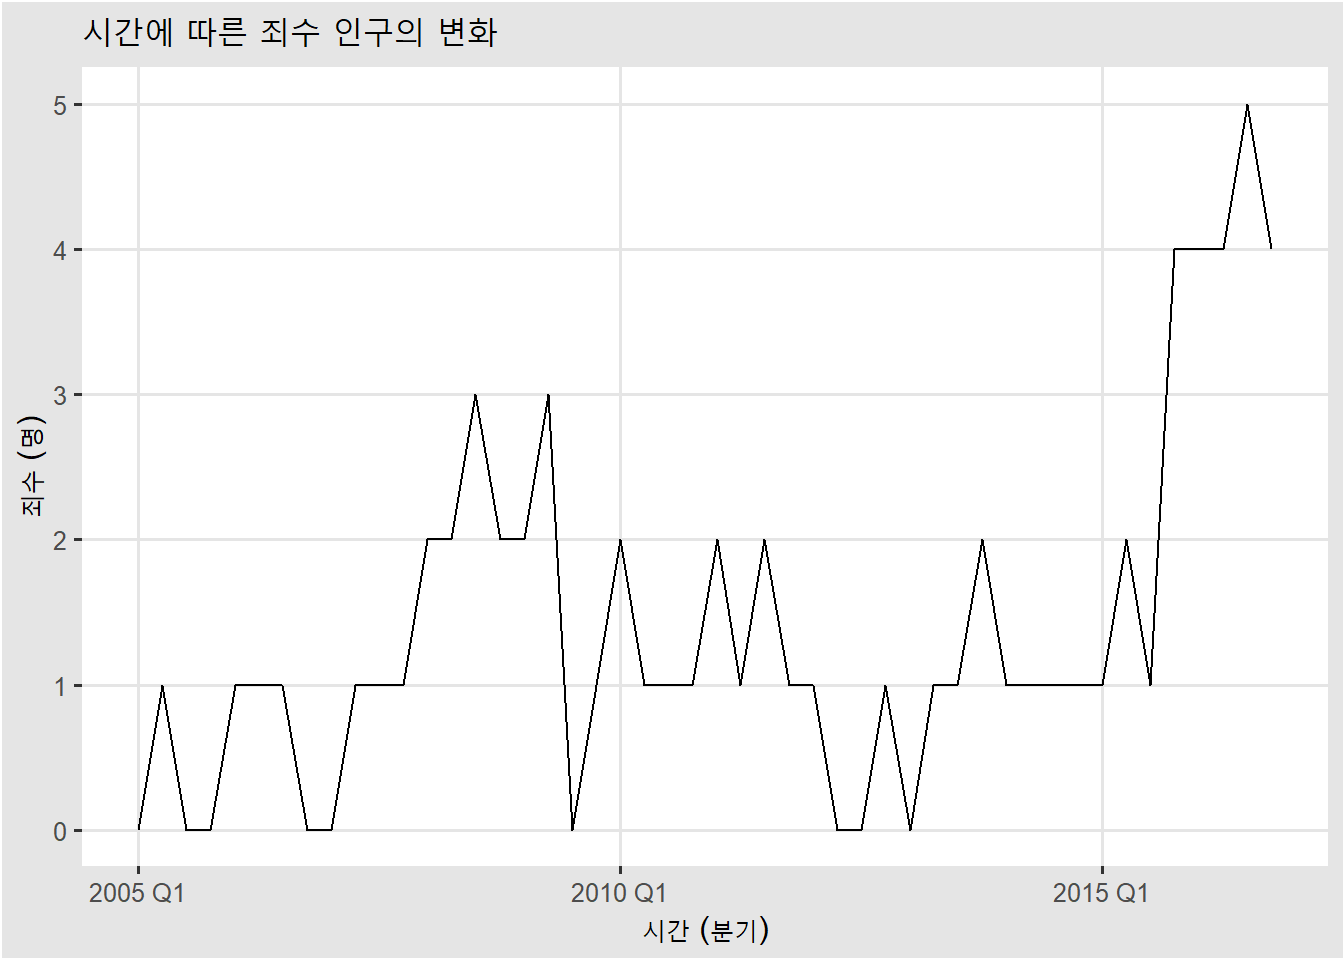
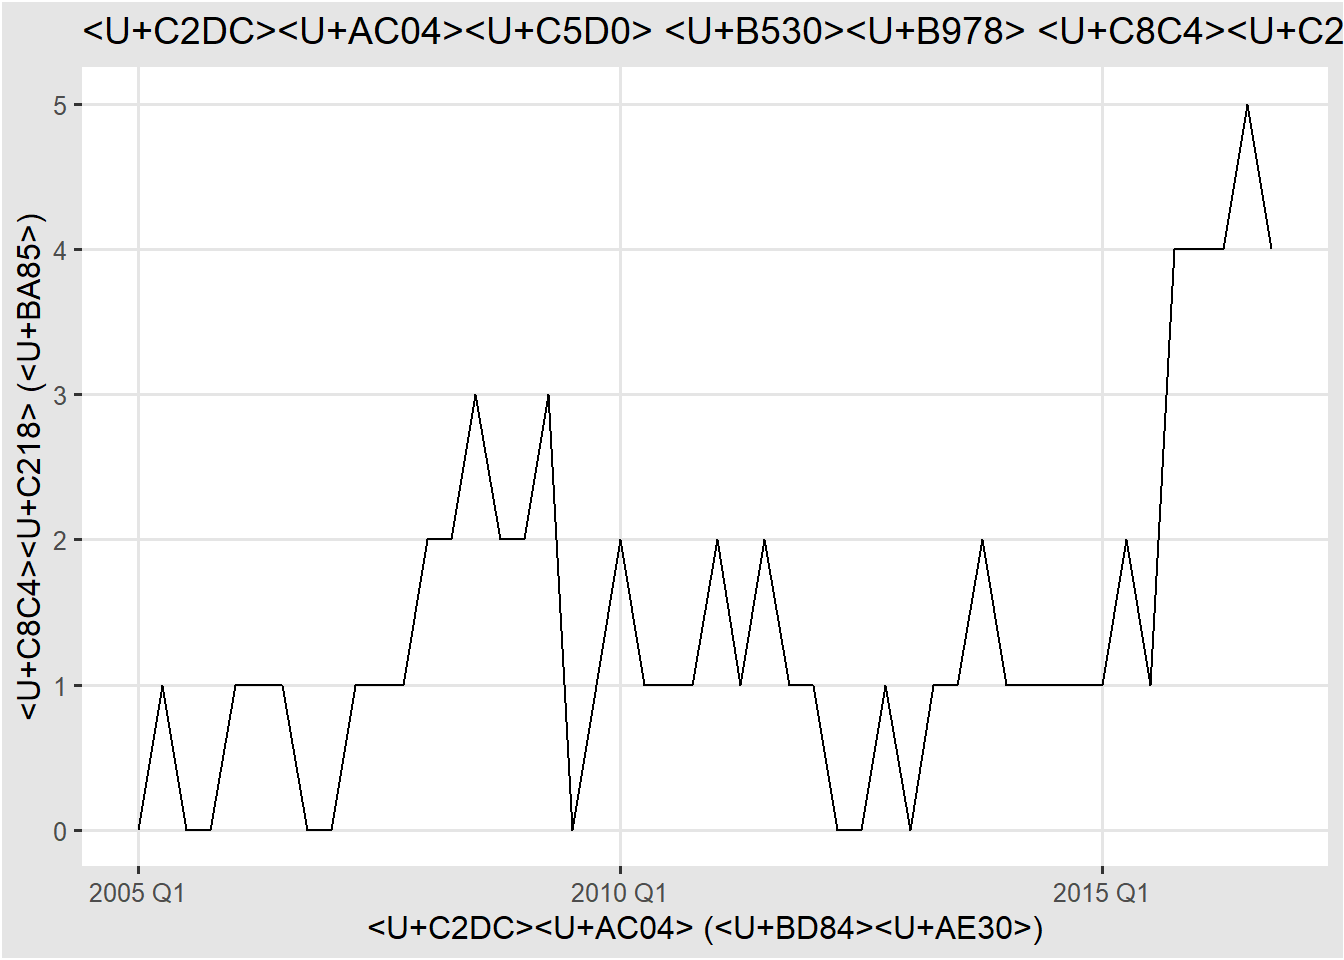
Chapter3 Commit
Chapter 3 Updated

diff --git a/docs/chapter3.html b/docs/chapter3.html
@@ -4,11 +4,11 @@
 
   <meta charset="utf-8" />
   <meta http-equiv="X-UA-Compatible" content="IE=edge" />
-  <title>시계열 공략집 with R</title>
+  <title>Chapter 2 시계열 첫걸음, 관련 패키지의 이해 | 시계열 공략집 with R</title>
   <meta name="description" content="복잡한 시계열 공부, 차근차근 공부해서 정복해보시죠! 본격 R 시계열 공략집" />
   <meta name="generator" content="bookdown 0.24 and GitBook 2.6.7" />
 
-  <meta property="og:title" content="시계열 공략집 with R" />
+  <meta property="og:title" content="Chapter 2 시계열 첫걸음, 관련 패키지의 이해 | 시계열 공략집 with R" />
   <meta property="og:type" content="book" />
   
   
@@ -16,7 +16,7 @@
   <meta name="github-repo" content="statisticsplaybook/r-torch-playbook" />
 
   <meta name="twitter:card" content="summary" />
-  <meta name="twitter:title" content="시계열 공략집 with R" />
+  <meta name="twitter:title" content="Chapter 2 시계열 첫걸음, 관련 패키지의 이해 | 시계열 공략집 with R" />
   
   <meta name="twitter:description" content="복잡한 시계열 공부, 차근차근 공부해서 정복해보시죠! 본격 R 시계열 공략집" />
   
@@ -31,8 +31,8 @@
   <meta name="apple-mobile-web-app-status-bar-style" content="black" />
   
   
-
-<link rel="next" href="intro.html"/>
+<link rel="prev" href="intro.html"/>
+<link rel="next" href="references.html"/>
 <script src="libs/header-attrs-2.11/header-attrs.js"></script>
 <script src="libs/jquery-3.6.0/jquery-3.6.0.min.js"></script>
 <script src="https://cdn.jsdelivr.net/npm/fuse.js@6.4.6/dist/fuse.min.js"></script>
@@ -71,70 +71,6 @@
 <script data-ad-client="ca-pub-3877288275353516" async src="https://pagead2.googlesyndication.com/pagead/js/adsbygoogle.js"></script>
 
 
-<style type="text/css">
-pre > code.sourceCode { white-space: pre; position: relative; }
-pre > code.sourceCode > span { display: inline-block; line-height: 1.25; }
-pre > code.sourceCode > span:empty { height: 1.2em; }
-.sourceCode { overflow: visible; }
-code.sourceCode > span { color: inherit; text-decoration: inherit; }
-pre.sourceCode { margin: 0; }
-@media screen {
-div.sourceCode { overflow: auto; }
-}
-@media print {
-pre > code.sourceCode { white-space: pre-wrap; }
-pre > code.sourceCode > span { text-indent: -5em; padding-left: 5em; }
-}
-pre.numberSource code
-  { counter-reset: source-line 0; }
-pre.numberSource code > span
-  { position: relative; left: -4em; counter-increment: source-line; }
-pre.numberSource code > span > a:first-child::before
-  { content: counter(source-line);
-    position: relative; left: -1em; text-align: right; vertical-align: baseline;
-    border: none; display: inline-block;
-    -webkit-touch-callout: none; -webkit-user-select: none;
-    -khtml-user-select: none; -moz-user-select: none;
-    -ms-user-select: none; user-select: none;
-    padding: 0 4px; width: 4em;
-    color: #aaaaaa;
-  }
-pre.numberSource { margin-left: 3em; border-left: 1px solid #aaaaaa;  padding-left: 4px; }
-div.sourceCode
-  {   }
-@media screen {
-pre > code.sourceCode > span > a:first-child::before { text-decoration: underline; }
-}
-code span.al { color: #ff0000; font-weight: bold; } /* Alert */
-code span.an { color: #60a0b0; font-weight: bold; font-style: italic; } /* Annotation */
-code span.at { color: #7d9029; } /* Attribute */
-code span.bn { color: #40a070; } /* BaseN */
-code span.bu { } /* BuiltIn */
-code span.cf { color: #007020; font-weight: bold; } /* ControlFlow */
-code span.ch { color: #4070a0; } /* Char */
-code span.cn { color: #880000; } /* Constant */
-code span.co { color: #60a0b0; font-style: italic; } /* Comment */
-code span.cv { color: #60a0b0; font-weight: bold; font-style: italic; } /* CommentVar */
-code span.do { color: #ba2121; font-style: italic; } /* Documentation */
-code span.dt { color: #902000; } /* DataType */
-code span.dv { color: #40a070; } /* DecVal */
-code span.er { color: #ff0000; font-weight: bold; } /* Error */
-code span.ex { } /* Extension */
-code span.fl { color: #40a070; } /* Float */
-code span.fu { color: #06287e; } /* Function */
-code span.im { } /* Import */
-code span.in { color: #60a0b0; font-weight: bold; font-style: italic; } /* Information */
-code span.kw { color: #007020; font-weight: bold; } /* Keyword */
-code span.op { color: #666666; } /* Operator */
-code span.ot { color: #007020; } /* Other */
-code span.pp { color: #bc7a00; } /* Preprocessor */
-code span.sc { color: #4070a0; } /* SpecialChar */
-code span.ss { color: #bb6688; } /* SpecialString */
-code span.st { color: #4070a0; } /* String */
-code span.va { color: #19177c; } /* Variable */
-code span.vs { color: #4070a0; } /* VerbatimString */
-code span.wa { color: #60a0b0; font-weight: bold; font-style: italic; } /* Warning */
-</style>
 
 
 <link rel="stylesheet" href="style.css" type="text/css" />
@@ -196,48 +132,20 @@ code span.wa { color: #60a0b0; font-weight: bold; font-style: italic; } /* Warni
           <div class="page-inner">
 
             <section class="normal" id="section-">
-<div id="header">
-<h1 class="title">시계열 공략집 with R</h1>
-<p class="author"><em><a href="https://www.youtube.com/c/statisticsplaybook">슬기로운통계생활</a></em></p>
-<p class="date"><em>2022-01-15</em></p>
-</div>
-<div id="들어가며" class="section level1 unnumbered">
-<h1>들어가며</h1>
-<p><img src="image/deeplearning-playbook.png" /></p>
-<p>슬기로운 통계생활에서 2022년을 맞이하여 새롭게 시작한 시계열 스터디 내욜을 정리해놓은 레포입니다! 많은 내용은 다음의 R 시계열 교과서인 <a href="https://otexts.com/fpp3/">Forecasting: Principles and Practice (이하 <code>fpp3</code>)</a> 책을 기반으로 하고 있으나, 슬기로운 통계생활의 입맛에 맞게 내용이 추가 혹은 변경되어 있음을 알려드립니다.</p>
-<div id="공략집-사용법" class="section level2 unnumbered">
-<h2>공략집 사용법</h2>
-<ul>
-<li>중요표시, 주석달기: 읽다가 중요하거나 나중에 따로 보고싶은 기능의 경우, 드래그를 하면 다음과 같은 선택 버튼이 나온다. 형광펜 긋고 싶은 경우 <code>Highlight</code> 선택, 주석을 달고 싶은 경우 <code>Annotate</code>을 선택하자.</li>
-</ul>
-<p><img src="image/annotation.jpg" /></p>
-<ul>
-<li><p>하이라이팅 on/off: 가끔은 하이라이팅 해 놓은 것들을 없애고 글 만 읽고싶은 경우가 있을텐데 그 때엔 오른쪽 상단 동그라미에 점이 찍혀있는 버튼를 클릭하면 하이라이팅 된 것이 사라진다.</p></li>
-<li><p>주석 공개/비공개: 주석은 필자와 다른 독자가 볼 수 있도록 <code>public</code>하게 남길 수도 있고, 자신만 볼 수 있게끔 private으로 설정 할 수 있다.</p></li>
-</ul>
-<p><img src="image/private.jpg" /></p>
-<ul>
-<li>주석 기능을 이용하여 필자에게 피드백을 줄 수 있다. 오타나 오류 발견시 주석을 달아주시면 필자가 주기적으로 체크해서 고쳐나가도록 하겠다.</li>
-</ul>
-<div class="rmdnote">
-<h3 id="알아두기">
-알아두기
+<div id="chapter3" class="section level1" number="2">
+<h1><span class="header-section-number">Chapter 2</span> 시계열 첫걸음, 관련 패키지의 이해</h1>
+<div id="tsibble-그리고-fable-패키지-1" class="section level2" number="2.1">
+<h2><span class="header-section-number">2.1</span> <code>tsibble</code> 그리고 <code>fable</code> 패키지</h2>
+<p>시계열과 관련 된 R 패키지는 정말 많이 있다. 그 중에서 가장 유명한 패키지는 <code>forecast</code> 패키지이다. <code>fpp</code> 2판에서 메인 패키지로 활용되었던 <code>forecast</code> 패키지는 예측성능이 좋기로 유명하다. 하지만 <code>forecast</code>는 base 패키지를 기반으로 짜여져있는 패키지라서 <code>fpp</code> 3판에서 사용하게 될 패키지는 <code>tsibble</code>과 <code>fable</code> 패키지를 주로 사용하게 될 예정이다. 두 패키지 모두 <code>tidyverse</code>스러운 코딩과 잘 맞는 함수들을 지원하는 것이 특징이다.</p>
+<div class="rmdwarning">
+<h3 id="주의하기">
+주의하기
 </h3>
 <p>
-<strong>하이라이팅과 주석들을 나중에 따로 볼 수 있다.</strong> 자주 방문하시는 분들은 가입하시고 사용하시면 여러모로 편할 것이다.
+<code>forecast</code> 패키지는 다른 언어를 사용하는 커뮤니티에도 알려질 정도로 잘 짜여진 패키지이다. 꼭 한번은 사용법을 알아둘 것을 추천한다. <a href="https://otexts.com/fppkr/"><code>fpp</code> 2판의 한글판</a>을 봐두는 것도 나쁘지 않는 선택이다.
 </p>
 </div>
-</div>
-<div id="설치하기" class="section level2 unnumbered">
-<h2>설치하기</h2>
-<p>설치 역시 간단한다. 여느 R패키지와 같이 <code>install.packages()</code> 함수를 사용하면 된다. 서브 라이브러리인 <code>torchaudio</code>와 <code>torchvision</code>이 있으나, 책의 뒷부분에서 다루기로 한다.</p>
-<div class="sourceCode" id="cb1"><pre class="sourceCode r"><code class="sourceCode r"><span id="cb1-1"><a href="index.html#cb1-1" aria-hidden="true" tabindex="-1"></a><span class="fu">install.packages</span>(<span class="st">&quot;fpp3&quot;</span>)</span></code></pre></div>
-</div>
-<div id="기본-패키지" class="section level2 unnumbered">
-<h2>기본 패키지</h2>
-<p>앞으로의 내용에 있어서 다음의 두 패키지는 기본으로 불러와서 사용하는 것을 약속으로 한다.</p>
-<div class="sourceCode" id="cb2"><pre class="sourceCode r"><code class="sourceCode r"><span id="cb2-1"><a href="index.html#cb2-1" aria-hidden="true" tabindex="-1"></a><span class="fu">library</span>(tidyverse)</span>
-<span id="cb2-2"><a href="index.html#cb2-2" aria-hidden="true" tabindex="-1"></a><span class="fu">library</span>(fpp3)</span></code></pre></div>
+<p>Chapter 3 (tested by Jongjin Kim)</p>
 
 </div>
 </div>
@@ -246,8 +154,8 @@ code span.wa { color: #60a0b0; font-weight: bold; font-style: italic; } /* Warni
           </div>
         </div>
       </div>
-
-<a href="intro.html" class="navigation navigation-next navigation-unique" aria-label="Next page"><i class="fa fa-angle-right"></i></a>
+<a href="intro.html" class="navigation navigation-prev " aria-label="Previous page"><i class="fa fa-angle-left"></i></a>
+<a href="references.html" class="navigation navigation-next " aria-label="Next page"><i class="fa fa-angle-right"></i></a>
     </div>
   </div>
 <script src="libs/gitbook-2.6.7/js/app.min.js"></script>
@@ -264,7 +172,7 @@ gitbook.start({
 "sharing": null,
 "fontsettings": null,
 "edit": {
-"link": "https://github.com/statisticsplaybook/deeplearning-playbook/edit/master/index.Rmd",
+"link": "https://github.com/statisticsplaybook/deeplearning-playbook/edit/master/03-Chapter3.Rmd",
 "text": "Edit"
 },
 "history": {

diff --git a/docs/404.html b/docs/404.html
@@ -171,6 +171,10 @@ code span.wa { color: #60a0b0; font-weight: bold; font-style: italic; } /* Warni
 <li class="chapter" data-level="1.7" data-path="intro.html"><a href="intro.html#seasonal-plot"><i class="fa fa-check"></i><b>1.7</b> Seasonal plot</a></li>
 <li class="chapter" data-level="1.8" data-path="intro.html"><a href="intro.html#scatter-plots"><i class="fa fa-check"></i><b>1.8</b> Scatter plots</a></li>
 </ul></li>
+<li class="chapter" data-level="2" data-path="chapter3.html"><a href="chapter3.html"><i class="fa fa-check"></i><b>2</b> 시계열 첫걸음, 관련 패키지의 이해</a>
+<ul>
+<li class="chapter" data-level="2.1" data-path="chapter3.html"><a href="chapter3.html#tsibble-그리고-fable-패키지-1"><i class="fa fa-check"></i><b>2.1</b> <code>tsibble</code> 그리고 <code>fable</code> 패키지</a></li>
+</ul></li>
 <li class="chapter" data-level="" data-path="references.html"><a href="references.html"><i class="fa fa-check"></i>References</a></li>
 <li class="divider"></li>
 <li><a href="https://github.com/statisticsplaybook/r-torch-playbook" target="blank">Published with bookdown</a></li>

diff --git a/docs/01-intro-to-tsibble.md b/docs/01-intro-to-tsibble.md
@@ -158,7 +158,8 @@ prison
 분기별 데이터를 `yearquarter` 사용해서 설정해줬던 것 처럼 다음 표과 같이 여러 시간 간격을 설정할 수 있는 함수를 `tsibble` 패키지에서는 제공한다. 자신의 데이터에 맞는 시간 간격을 설정해서 사용하자.
 
 <table class="table" style="width: auto !important; margin-left: auto; margin-right: auto;">
-<caption>(\#tab:unnamed-chunk-8)tsibble 객체에 부여할 수 있는 시간 간격 종류들</caption>
+<caption>(\#tab:unnamed-chunk-8)tsibble <u><u><u> <u><u><u> <u> <u><u> <u><u> <u><u> <u><u><u></u></u></u></u></u></u></u></u></u></u></u></u></u></u></u></u>
+</caption>
  <thead>
   <tr>
    <th style="text-align:left;"> Frequency </th>
@@ -252,8 +253,8 @@ vic_elec %>%
 ```
 
 <div class="figure">
-<img src="01-intro-to-tsibble_files/figure-html/unnamed-chunk-11-1.png" alt="하루 기준 전력 수요량의 변화 패턴" width="672" />
-<p class="caption">(\#fig:unnamed-chunk-11)하루 기준 전력 수요량의 변화 패턴</p>
+<img src="01-intro-to-tsibble_files/figure-html/unnamed-chunk-11-1.png" alt="&lt;U+D558&gt;&lt;U+B8E8&gt; &lt;U+AE30&gt;&lt;U+C900&gt; &lt;U+C804&gt;&lt;U+B825&gt; &lt;U+C218&gt;&lt;U+C694&gt;&lt;U+B7C9&gt;&lt;U+C758&gt; &lt;U+BCC0&gt;&lt;U+D654&gt; &lt;U+D328&gt;&lt;U+D134&gt;" width="672" />
+<p class="caption">(\#fig:unnamed-chunk-11)<U+D558><U+B8E8> <U+AE30><U+C900> <U+C804><U+B825> <U+C218><U+C694><U+B7C9><U+C758> <U+BCC0><U+D654> <U+D328><U+D134></p>
 </div>
 
 한 주를 기준으로 그려보면 새로운 패턴을 발견할 수 있다.
@@ -269,8 +270,8 @@ vic_elec %>%
 ```
 
 <div class="figure">
-<img src="01-intro-to-tsibble_files/figure-html/unnamed-chunk-12-1.png" alt="한주 기준 전력 수요량의 변화 패턴" width="672" />
-<p class="caption">(\#fig:unnamed-chunk-12)한주 기준 전력 수요량의 변화 패턴</p>
+<img src="01-intro-to-tsibble_files/figure-html/unnamed-chunk-12-1.png" alt="&lt;U+D55C&gt;&lt;U+C8FC&gt; &lt;U+AE30&gt;&lt;U+C900&gt; &lt;U+C804&gt;&lt;U+B825&gt; &lt;U+C218&gt;&lt;U+C694&gt;&lt;U+B7C9&gt;&lt;U+C758&gt; &lt;U+BCC0&gt;&lt;U+D654&gt; &lt;U+D328&gt;&lt;U+D134&gt;" width="672" />
+<p class="caption">(\#fig:unnamed-chunk-12)<U+D55C><U+C8FC> <U+AE30><U+C900> <U+C804><U+B825> <U+C218><U+C694><U+B7C9><U+C758> <U+BCC0><U+D654> <U+D328><U+D134></p>
 </div>
 
 <div class="rmdnote">

diff --git a/docs/03-Chapter3.md b/docs/03-Chapter3.md
@@ -9,4 +9,4 @@
 <p><code>forecast</code> 패키지는 다른 언어를 사용하는 커뮤니티에도 알려질 정도로 잘 짜여진 패키지이다. 꼭 한번은 사용법을 알아둘 것을 추천한다. <a href="https://otexts.com/fppkr/"><code>fpp</code> 2판의 한글판</a>을 봐두는 것도 나쁘지 않는 선택이다.</p>
 </div>
 
-Chapter 3 (tested by Jongjin)
+Chapter 3 (tested by Jongjin Kim)
